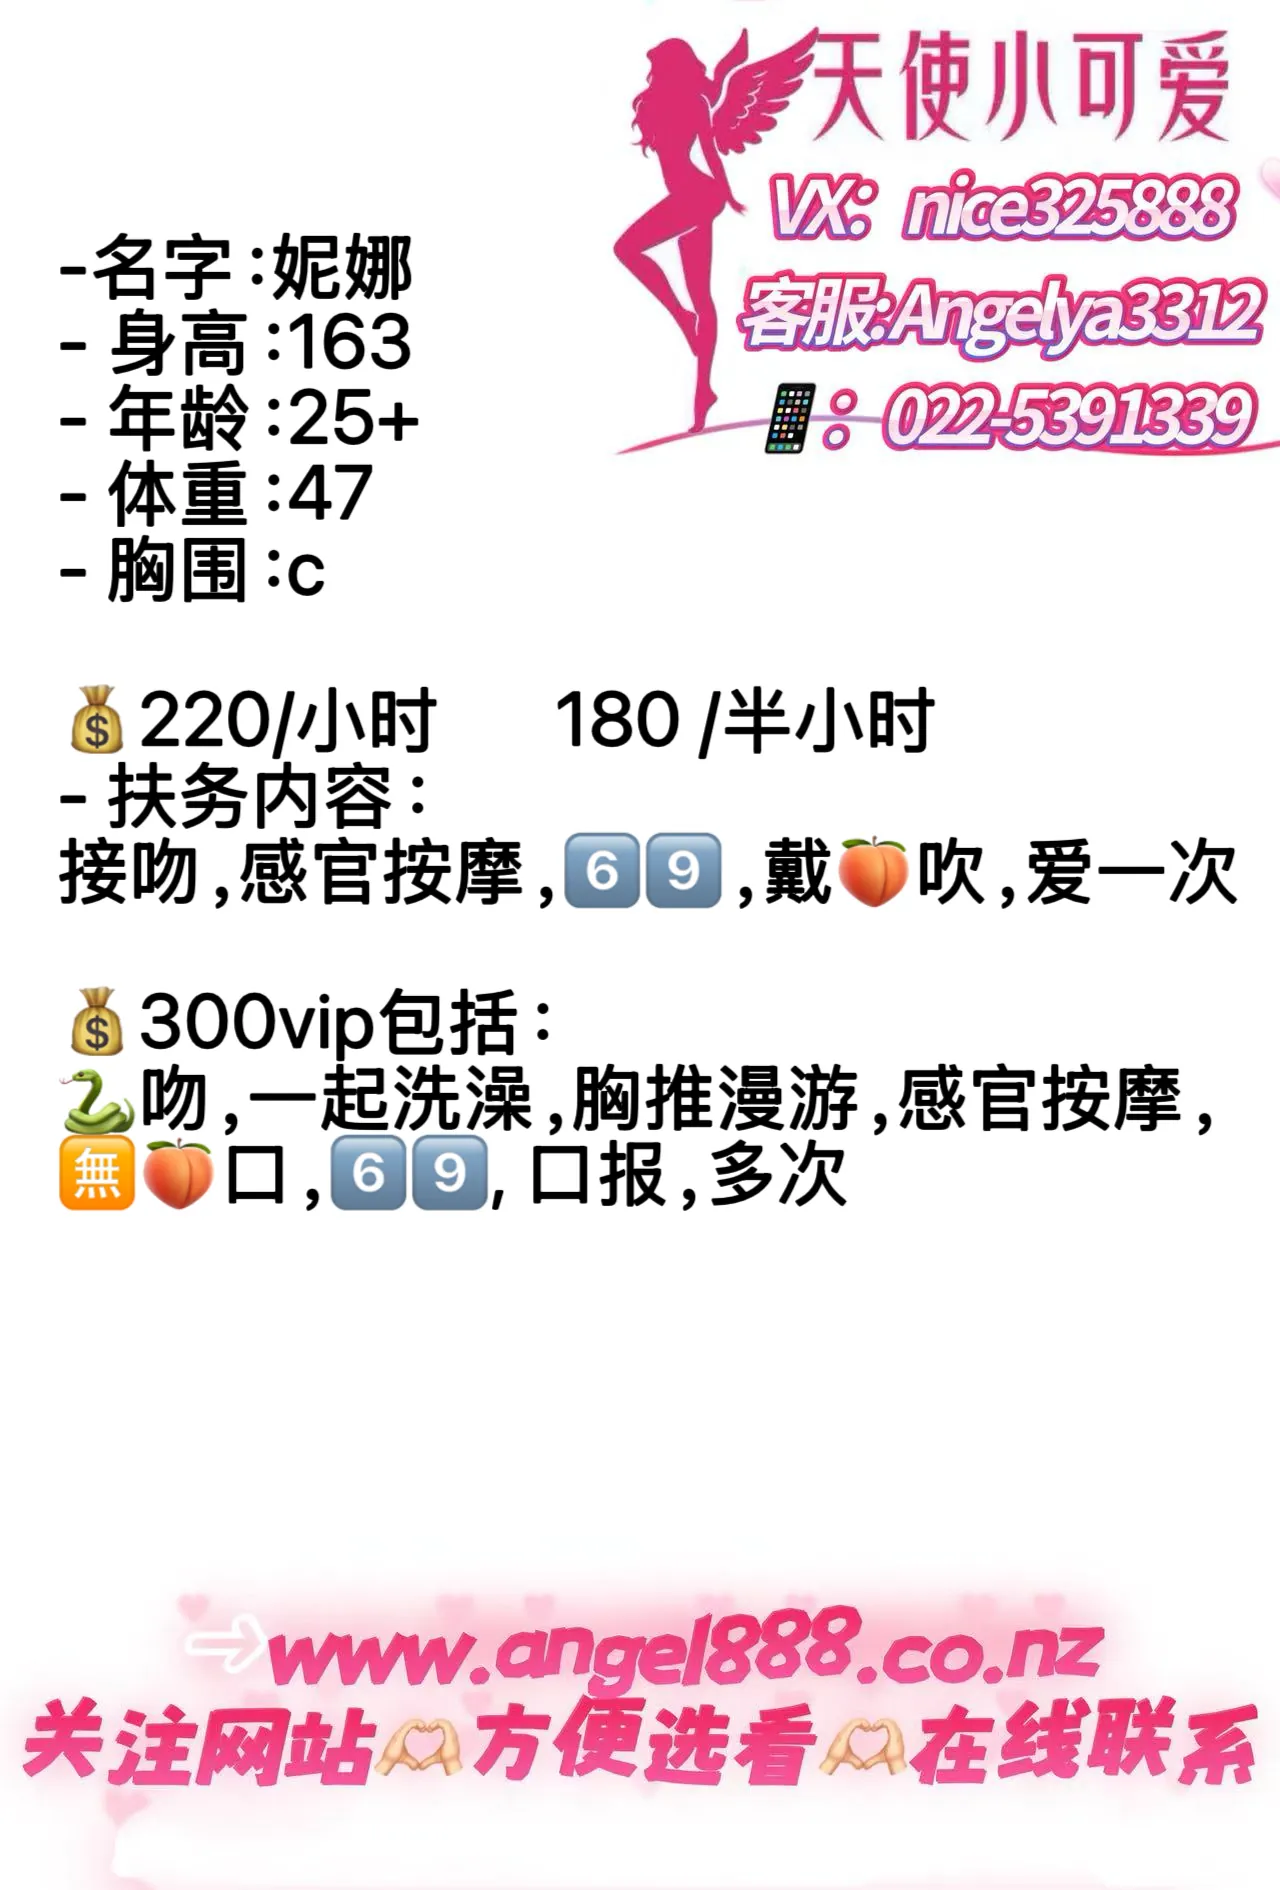
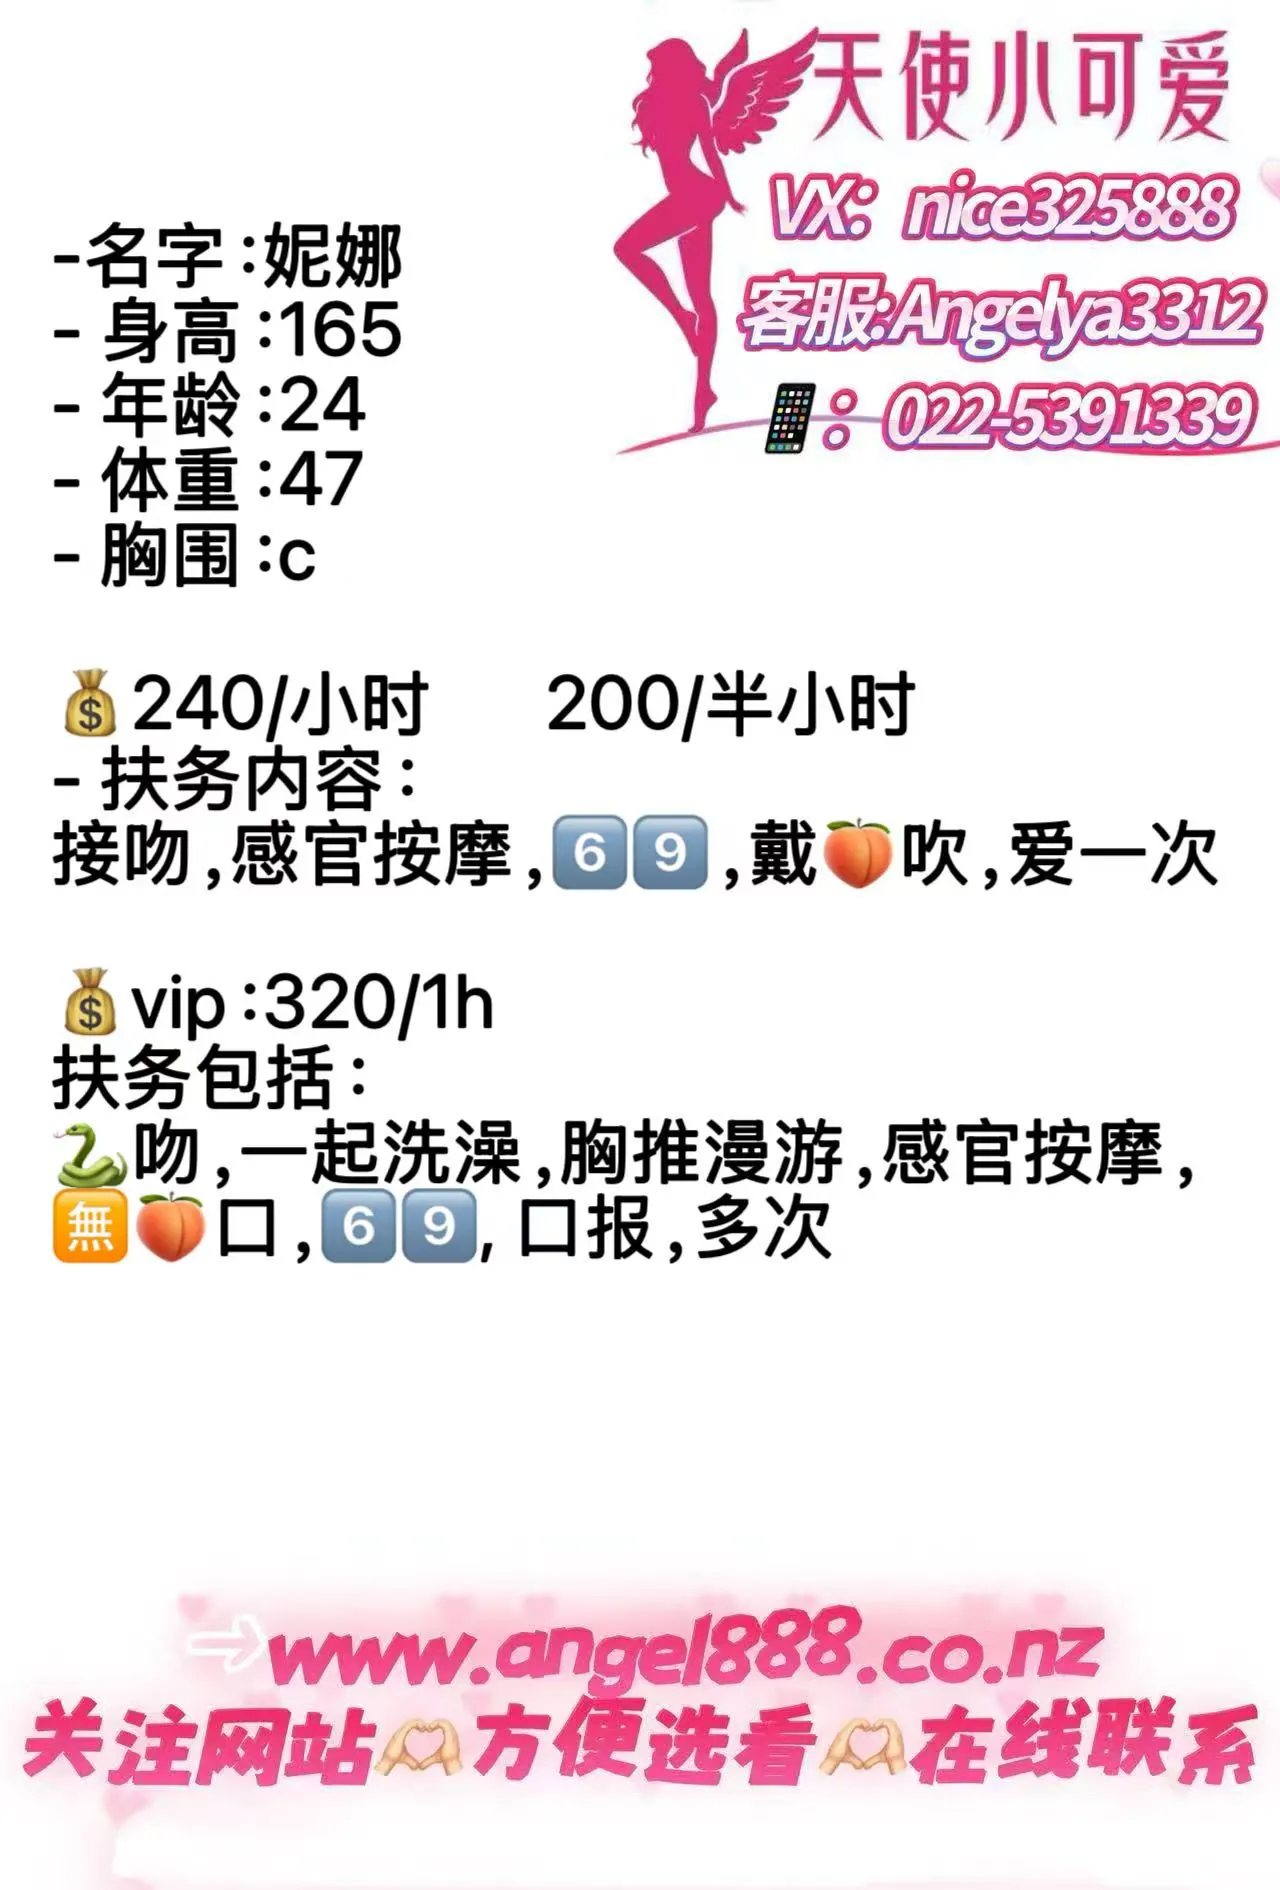
feat: Update Nina (妮娜, ID 51) profile in East with new prices, age, services and WebP optimized assets

Changed region(s): [[0.0312, 0.0937, 0.9688, 0.6868]]

diff --git a/src/lib/data.js b/src/lib/data.js
@@ -376,9 +376,9 @@ export const girls = [
     name: { en: "Nina", cn: "妮娜" },
     status: "available",
     verified: true,
-    location: "Central",
+    location: "East",
     stats: {
-      age: "25+",
+      age: 24,
       height: "163cm",
       weight: "47kg",
       cup: "C (Natural)",
@@ -386,10 +386,10 @@ export const girls = [
     },
     image: "/images/girls/nina/1.webp",
     description: {
-      en: "Elegant, charming, and deeply attentive, Nina is now available in Central to offer you a highly tailored, intimate encounter. Standing at 163cm with a perfectly balanced natural C-cup figure, she is incredibly accommodating and cooperative. Specializing in both gentle, full-body sensory massage and high-passion intimate sessions, she dedicates her absolute focus to catering to your every whim for a truly relaxing escape.",
-      cn: "优雅迷人、温婉贴心的妮娜，现已在奥克兰中区为您开启专属的私密邂逅。她拥有 163cm 的高挑匀称身材，天然丰满的 C 罩杯极具诱惑，配合度无与伦比。无论是细腻温柔的全身感官按摩，还是极致欢愉的多云雨体验，妮娜都能以精湛的技巧和全心全意的迎合让您沉醉其中，为您打造难以忘怀的完美享受。",
+      en: "Elegant, charming, and deeply attentive, the beautiful 24-year-old Nina is now available in East Auckland to offer you a highly tailored, intimate encounter. Standing at 163cm with a perfectly balanced natural C-cup figure and fair, smooth skin. Specializing in both gentle sensory massage and high-passion intimate SVIP/Full Service packages, she focuses on every detail to satisfy your every desire and ensure a deeply relaxing, blissful escape.",
+      cn: "优雅迷人、温婉贴心的24岁女孩妮娜，现已在奥克兰东区为您开启专属的私密邂逅。她拥有163cm、47kg的匀称娇躯，天然丰满的C罩杯极具诱惑，配合度无与伦比。专业定制SVIP与全套互动体验，包含双人淋浴、缠绵舌吻、性感黑丝、胸推漫游、深度无套口及口爆等项目。在东区舒适安逸的环境中，为您呈现极尽缠绵与彻底放松的感官享受。",
     },
-    price: "$300 / 1h (VIP) · $220 / 1h · $180 / 30min",
+    price: "$320 / 1h (VIP) · $240 / 1h · $200 / 30min",
     services: {
       en: [
         "French kiss",
@@ -399,7 +399,7 @@ export const girls = [
         "Body slide",
         "Natural BJ",
         "Multi shots",
-        "VIP: Natural BJ · French kiss · 69 · Cum in mouth · Multi shots · Shower together",
+        "VIP: Natural BJ · French kiss · 69 · Cum in mouth · Multi shots · Shower together · Body slide",
       ],
       cn: [
         "舌吻",
@@ -409,7 +409,7 @@ export const girls = [
         "胸推漫游",
         "无套口",
         "多次数",
-        "VIP套餐：无套口 · 舌吻 · 69 · 口爆 · 多次数 · 双人洗浴",
+        "VIP套餐：无套口 · 舌吻 · 69 · 口爆 · 多次数 · 双人洗浴 · 胸推漫游",
       ],
     },
     gallery: [
